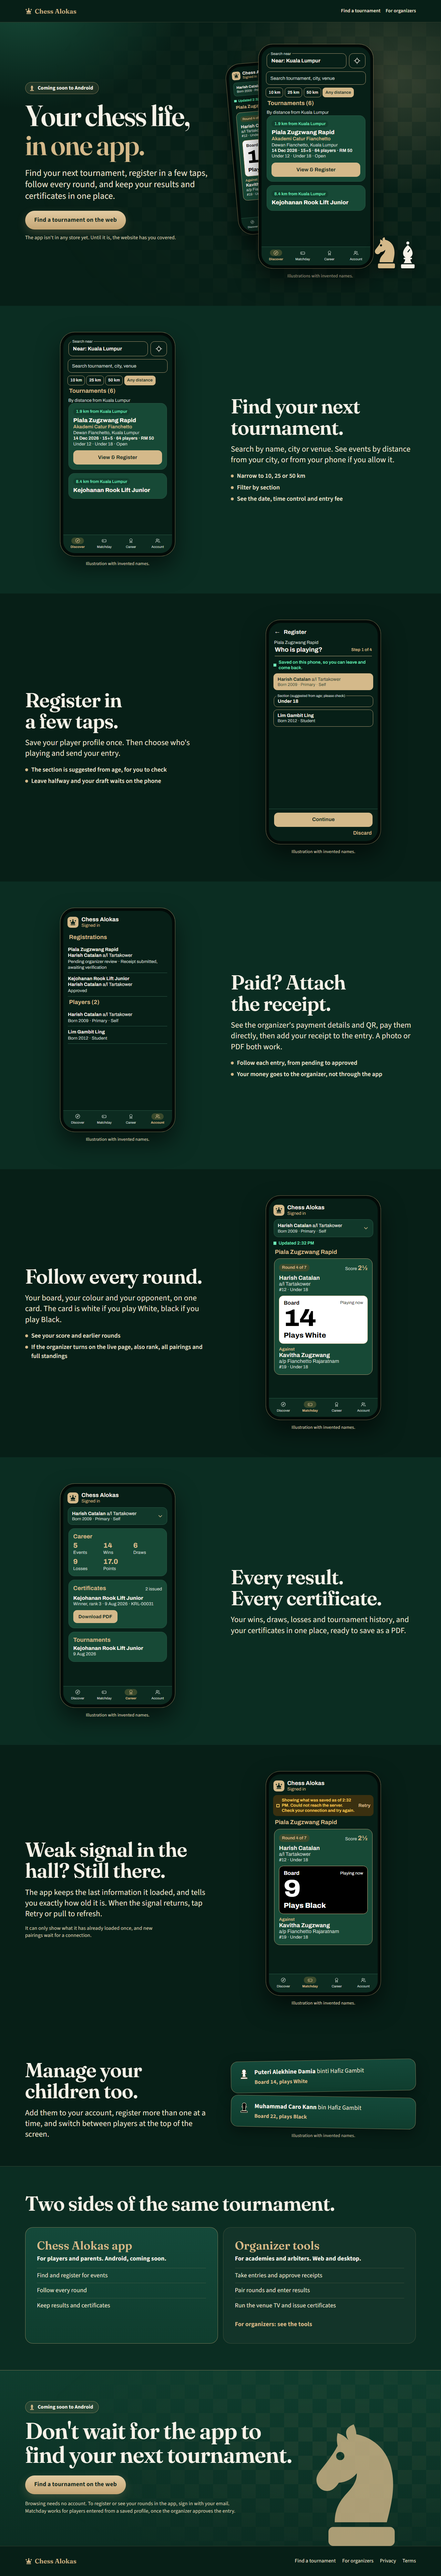
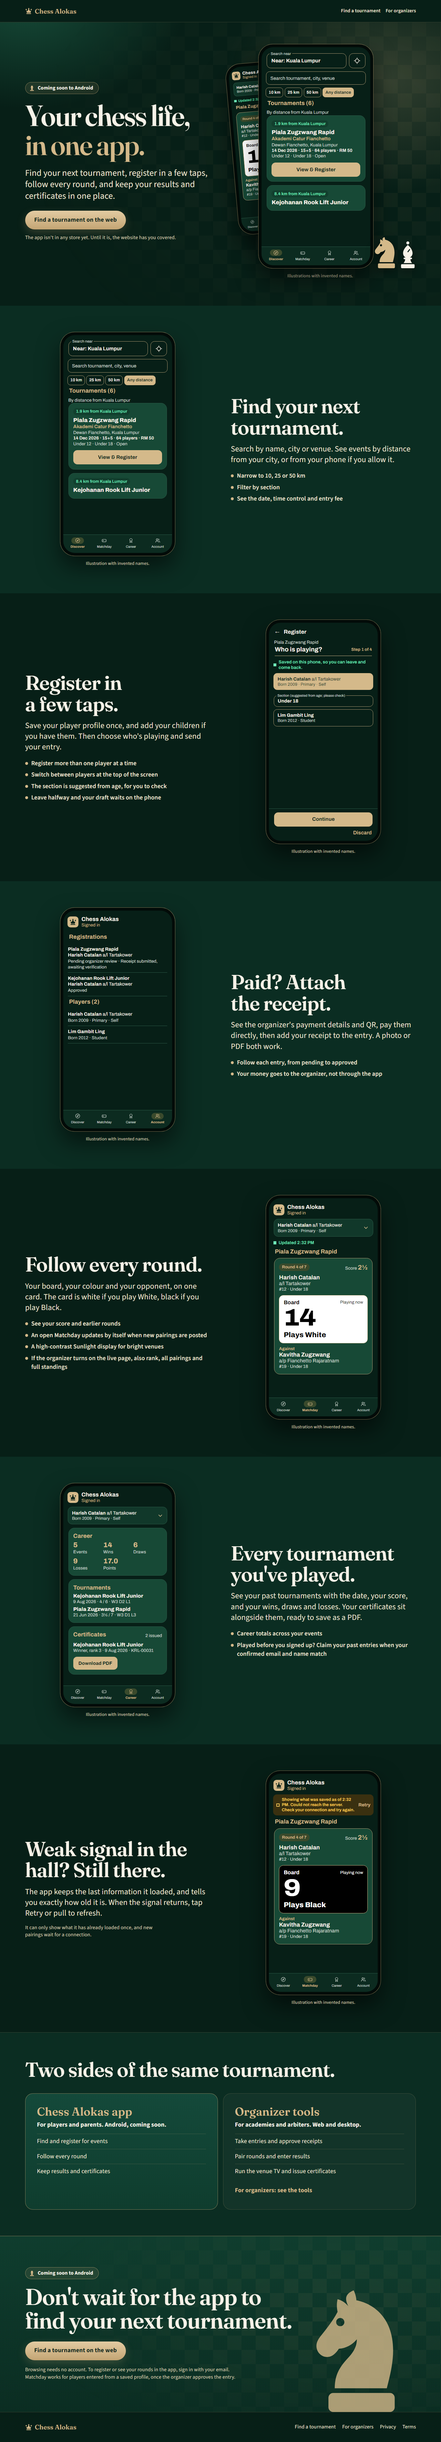
App page: put adding children in registering, add past tournaments and matchday details

diff --git a/apps/web/src/pages/mobile-app/MobileAppPage.tsx b/apps/web/src/pages/mobile-app/MobileAppPage.tsx
@@ -158,8 +158,10 @@ export default function MobileAppPage() {
         </Story>
 
         <Story id="ma-register" title="Register in a few taps." phone={<RegisterPhone />}>
-          <p>Save your player profile once. Then choose who&apos;s playing and send your entry.</p>
+          <p>Save your player profile once, and add your children if you have them. Then choose who&apos;s playing and send your entry.</p>
           <ul>
+            <li>Register more than one player at a time</li>
+            <li>Switch between players at the top of the screen</li>
             <li>The section is suggested from age, for you to check</li>
             <li>Leave halfway and your draft waits on the phone</li>
           </ul>
@@ -177,46 +179,24 @@ export default function MobileAppPage() {
           <p>Your board, your colour and your opponent, on one card. The card is white if you play White, black if you play Black.</p>
           <ul>
             <li>See your score and earlier rounds</li>
+            <li>An open Matchday updates by itself when new pairings are posted</li>
+            <li>A high-contrast Sunlight display for bright venues</li>
             <li>If the organizer turns on the live page, also rank, all pairings and full standings</li>
           </ul>
         </Story>
 
-        <Story id="ma-career" flip title="Every result. Every certificate." phone={<CareerPhone />}>
-          <p>Your wins, draws, losses and tournament history, and your certificates in one place, ready to save as a PDF.</p>
+        <Story id="ma-career" flip title="Every tournament you've played." phone={<CareerPhone />}>
+          <p>See your past tournaments with the date, your score, and your wins, draws and losses. Your certificates sit alongside them, ready to save as a PDF.</p>
+          <ul>
+            <li>Career totals across your events</li>
+            <li>Played before you signed up? Claim your past entries when your confirmed email and name match</li>
+          </ul>
         </Story>
 
         <Story id="ma-signal" title="Weak signal in the hall? Still there." phone={<OfflinePhone />}>
           <p>The app keeps the last information it loaded, and tells you exactly how old it is. When the signal returns, tap Retry or pull to refresh.</p>
           <p className="ma-fine">It can only show what it has already loaded once, and new pairings wait for a connection.</p>
         </Story>
-
-        <section className="ma-kids" aria-labelledby="ma-h-kids">
-          <div className="ma-wrap ma-kids-in">
-            <div>
-              <h2 id="ma-h-kids">Manage your children too.</h2>
-              <p>Add them to your account, register more than one at a time, and switch between players at the top of the screen.</p>
-            </div>
-            <figure className="ma-kids-fig">
-              <div className="ma-kids-cards" aria-hidden="true">
-                <div className="is-on">
-                  <Pawn side="w" />
-                  <span>
-                    <b>Puteri Alekhine Damia</b> binti Hafiz Gambit
-                    <small>Board 14, plays White</small>
-                  </span>
-                </div>
-                <div>
-                  <Pawn side="b" />
-                  <span>
-                    <b>Muhammad Caro Kann</b> bin Hafiz Gambit
-                    <small>Board 22, plays Black</small>
-                  </span>
-                </div>
-              </div>
-              <figcaption>Illustration with invented names.</figcaption>
-            </figure>
-          </div>
-        </section>
 
         <section className="ma-diff" aria-labelledby="ma-h-diff">
           <div className="ma-wrap">

diff --git a/apps/web/src/pages/mobile-app/mobile-app.css b/apps/web/src/pages/mobile-app/mobile-app.css
@@ -117,7 +117,7 @@ body:has(.ma) { background: #071f17; }
 
 /* Matchday facts */
 .ma-four { background: linear-gradient(180deg, var(--ma-panel), var(--ma-bg2)); padding-block: clamp(48px, 6vw, 88px); border-block: 1px solid var(--ma-line2); }
-.ma-four h2, .ma-story h2, .ma-kids h2, .ma-diff h2 { font-size: clamp(36px, 4.6vw, 72px); line-height: 1.04; letter-spacing: -0.012em; text-wrap: balance; }
+.ma-four h2, .ma-story h2, .ma-diff h2 { font-size: clamp(36px, 4.6vw, 72px); line-height: 1.04; letter-spacing: -0.012em; text-wrap: balance; }
 .ma-four dl { display: grid; gap: 12px; margin: clamp(24px, 3vw, 44px) 0 0; }
 .ma-four dl > div { padding: 22px; border-radius: 22px; border: 1px solid var(--ma-line); background: rgba(255, 255, 255, 0.04); }
 .ma-four dt { font-family: var(--ma-serif); font-weight: 600; font-size: clamp(25px, 2.2vw, 32px); line-height: 1.1; color: var(--ma-gold); }
@@ -137,31 +137,12 @@ body:has(.ma) { background: #071f17; }
 .ma-story-copy li::before { content: ""; flex: none; width: 9px; height: 9px; border-radius: 50%; background: var(--ma-gold); transform: translateY(-1px); }
 .ma-fig { display: flex; flex-direction: column; align-items: center; }
 .ma-fig .ps-phone, .ma-front { width: min(100%, clamp(290px, 26vw, 360px)); }
-.ma-kids-fig { min-width: 0; }
 @media (min-width: 900px) {
   .ma-story-in { grid-template-columns: 1fr 1fr; gap: 64px; }
   .ma-story.is-flip .ma-story-copy { order: 2; }
 }
 
 /* Family */
-.ma-kids { padding-block: clamp(48px, 6vw, 96px); }
-.ma-kids-in { display: grid; gap: 32px; align-items: center; }
-.ma-kids-in > * { min-width: 0; }
-.ma-kids p { margin: 18px 0 0; font-size: clamp(20px, 1.8vw, 25px); line-height: 1.35; max-width: 26em; }
-.ma-kids-cards { display: grid; gap: 14px; }
-.ma-kids-cards > div {
-  display: flex; gap: 14px; align-items: flex-start; padding: 20px 22px; border-radius: 22px;
-  background: linear-gradient(180deg, var(--ma-panel2), var(--ma-panel)); border: 1px solid var(--ma-line2);
-  box-shadow: 0 16px 40px rgba(0, 0, 0, 0.36);
-}
-.ma-kids-cards > div.is-on { transform: rotate(-1deg); }
-.ma-kids-cards > div:not(.is-on) { transform: rotate(1deg); }
-.ma-kids-cards svg { width: 36px; height: 36px; flex: none; stroke-width: 0.8; }
-.ma-kids-cards svg[data-side="w"] { fill: #ffffff; stroke: #5a4a2c; }
-.ma-kids-cards svg[data-side="b"] { fill: #000000; stroke: #efe3c8; }
-.ma-kids-cards b { color: var(--ma-cream); }
-.ma-kids-cards small { display: block; margin-top: 4px; font-size: 17px; font-weight: 700; color: var(--ma-gold); }
-@media (min-width: 900px) { .ma-kids-in { grid-template-columns: 1fr 1fr; gap: 64px; } }
 
 /* Difference */
 .ma-diff { padding-block: clamp(48px, 6vw, 96px); background: var(--ma-bg2); border-top: 1px solid var(--ma-line); }

diff --git a/apps/web/src/pages/mobile-app/PhoneScreens.tsx b/apps/web/src/pages/mobile-app/PhoneScreens.tsx
@@ -248,7 +248,7 @@ export function RegisterPhone() {
       </div>
       <div className="ps-person">
         <Name n={['Lim Gambit Ling', '']} />
-        <small>Born 2012 · Student</small>
+        <small>Born 2012 · Child</small>
       </div>
       <div className="ps-foot-act">
         <div className="ps-btn ps-btn-wide">Continue</div>
@@ -283,7 +283,7 @@ export function AccountPhone() {
         </div>
         <div>
           <Name n={['Lim Gambit Ling', '']} />
-          <small>Born 2012 · Student</small>
+          <small>Born 2012 · Child</small>
         </div>
       </div>
     </Phone>
@@ -292,7 +292,7 @@ export function AccountPhone() {
 
 export function CareerPhone() {
   return (
-    <Phone tab="Career" label="Career screen: win, draw and loss totals, a certificate with a Download PDF button, and tournament history.">
+    <Phone tab="Career" label="Career screen: win, draw and loss totals, past tournaments, a certificate with a Download PDF button, and tournament history.">
       <AppBar />
       <PlayerPicker n={PLAYER} sub="Born 2009 · Primary · Self" />
       <div className="ps-card">
@@ -313,6 +313,13 @@ export function CareerPhone() {
         </div>
       </div>
       <div className="ps-card">
+        <div className="ps-h ps-h-in">Tournaments</div>
+        <p className="ps-ev ps-ev-s">Kejohanan Rook Lift Junior</p>
+        <p className="ps-dim">9 Aug 2026 · 4 / 6 · W3 D2 L1</p>
+        <p className="ps-ev ps-ev-s">Piala Zugzwang Rapid</p>
+        <p className="ps-dim">21 Jun 2026 · 3½ / 7 · W3 D1 L3</p>
+      </div>
+      <div className="ps-card">
         <div className="ps-row">
           <div className="ps-h ps-h-in">Certificates</div>
           <span className="ps-dim">2 issued</span>
@@ -320,11 +327,6 @@ export function CareerPhone() {
         <p className="ps-ev ps-ev-s">Kejohanan Rook Lift Junior</p>
         <p className="ps-dim">Winner, rank 3 · 9 Aug 2026 · KRL-00031</p>
         <div className="ps-btn ps-btn-fit">Download PDF</div>
-      </div>
-      <div className="ps-card">
-        <div className="ps-h ps-h-in">Tournaments</div>
-        <p className="ps-ev ps-ev-s">Kejohanan Rook Lift Junior</p>
-        <p className="ps-dim">9 Aug 2026</p>
       </div>
     </Phone>
   );
